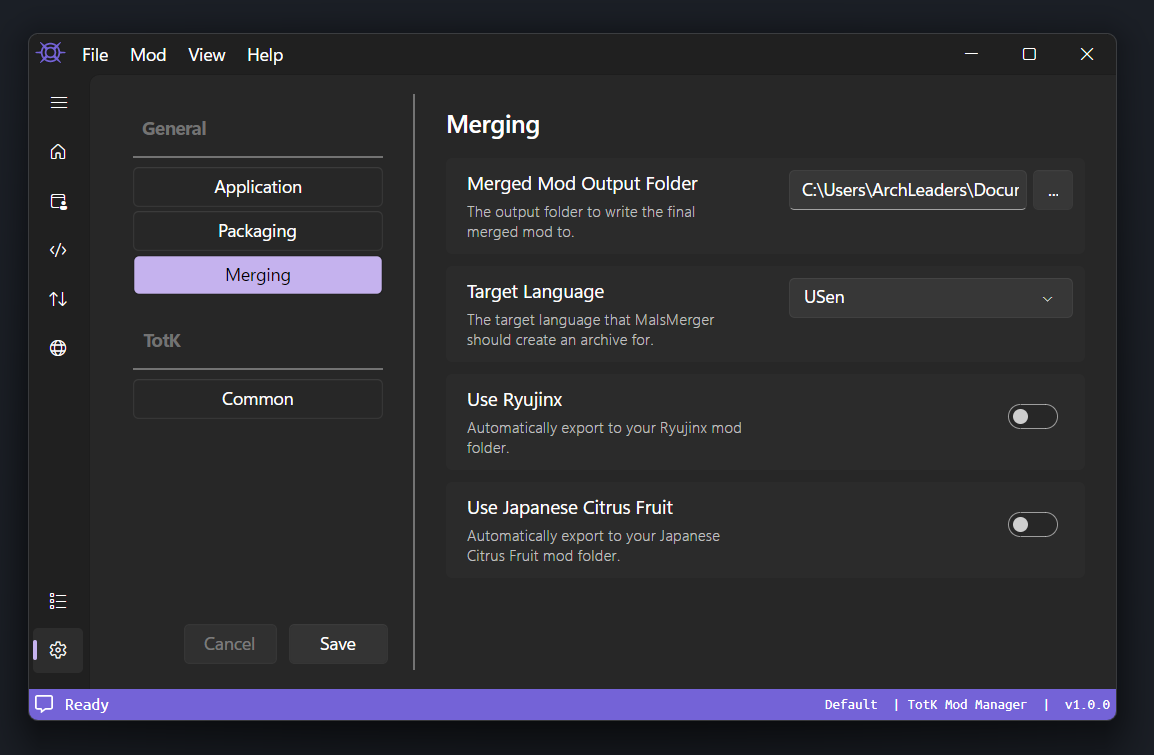
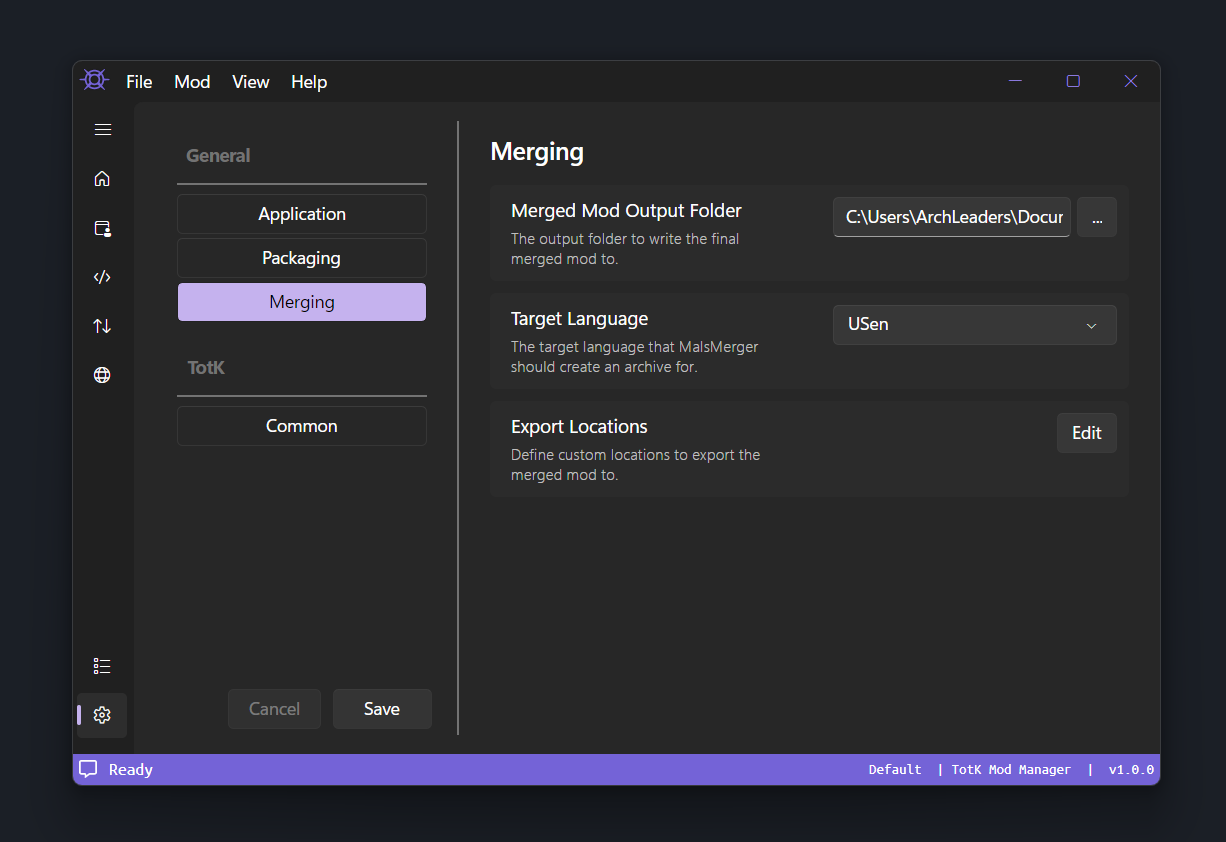
update wiki with new UI changes

diff --git a/wwwroot/docs/using-mods/index.md b/wwwroot/docs/using-mods/index.md
@@ -82,19 +82,17 @@ Once the options are configured to your liking, press the <kbd><samp>Back Arrow<
 
 <br>
 
-## Merging Mods
+## Ordering Mods
 
-...
+The mod list can be rearranged, this allows you to choose the priority order of each mods. Sometimes, some files and edits will be priority based, therefore some conflicting elements from several mods may overwrite each other.
 
-### Ordering Mods
+The mod at the top of the list will have the highest priority, and the mod at the bottom of the list will have the lowest priority.
 
-...
+There are 2 ways of rearranging the order. You can either select a mod and use the arrow buttons under the mod list, or you can drag and drop a mod in the list with your mouse.
 
-### Exporting Mods
+When choosing the order of your mods, you will usually want to place the biggest mods with the highest amount of changes on the lowest priority (this may not apply to all cases, some combinations may need to be tested individually).
 
-...
-
-<!-- EoF -->
+<br>
 
 ## Merging Mods
 In the mods list, on the right side of each mod's name, there is a checkbox. If the box is checked, that means the mod is enabled, and will be included in the merged export. If the box is unchecked, the mod is disabled, and it will not be included in the merged export. You can click and drag mods around to change their priority relative to one another. Mod's higher on the list will be given greater priority. For example, if two enabled mods each edit the same .bfres file, the mod with higher priority will have its changes applied, since bfres files don't support changelogs. When you are happy with your enabled mods and their priority, click `Merge` at the bottom of the screen. Your mods will be automatically merged and exported to the Merged Mod Output Folder specified in the settings.
@@ -117,7 +115,7 @@ For Switch users, `Export to an SD Card` is the best way to get your merged mods
     <img width="650" src="./images/UseMods_07_01.png">
 </p>
 
-To use this feature, first make sure you have your SD card plugged in.
+To use this feature, first make sure you have your SD card plugged in. It is recommended to use the USB Tool available in Hekate to avoid  constantly needing to remove the SD card from its slot.
 
 Then navigate to `File` > `Export to SD Card`. This will open up a dialog where you can choose your SD Card.
 
@@ -125,7 +123,7 @@ Then navigate to `File` > `Export to SD Card`. This will open up a dialog where 
     <img width="650" src="./images/UseMods_07_02.png">
 </p>
 
-After choosing the correct SD card from the dropdown, simply click `Export` and wait for the merge to complete.
+After choosing the correct SD card from the dropdown, simply click `Export` and wait for the operation to complete.
 
 > [!WARNING]
 > Any existing `romfs` or `exefs` folders will be permanently deleted from `atmosphere/contents/0100F2C0115B6000`.

diff --git a/wwwroot/docs/settings/index.md b/wwwroot/docs/settings/index.md
@@ -31,7 +31,7 @@ Controls whether or not changes made to TKMM's settings are automatically saved.
 This is the folder where your mods and profiles are stored.
 
 > [!NOTE]
-> Unless you have low disk space on your system drive, it is recomended to leave this as the default.
+> Unless you have low disk space on your system drive, it is recommended to leave this as the default.
 
 ### 7z Path
 
@@ -52,7 +52,7 @@ An optional field containing the path to the 7-zip executable. This speeds up ex
 Controls is the default name to use when packaging new mods.
 
 > [!IMPORTANT]
-> By default this is your computers username. Make sure this does not contain sensetive information that may be packaged and deployed in mods.
+> By default this is your computers username. Make sure this does not contain sensitive information that may be packaged and deployed in mods.
 
 ---
 
@@ -79,4 +79,8 @@ Controls the language to prefer when merging mods.
 
 ### Export Locations
 
-A menu to configure additional custom export locations. By default, the default export locations for Japanese Citrus Fruit and Ryujinx are listed here and toggled off. You can add additional paths by clicking the `+` button. As with the `Merged Mod Output Folder`, the contents of this folder will be deleted when merging mods, so be sure to set these folders carefully. 
+<p>
+    <img width="450" src="./images/Settings_General_Merging_Custom_Exports.png">
+</p>
+
+A menu to configure custom export locations. By default, the mod folders for Japanese Citrus Fruit and Ryujinx are listed here and toggled off. You can add additional paths by clicking the `+` button. As with the `Merged Mod Output Folder`, the contents of this folder will be deleted when merging mods, so be sure to set these folders carefully. If you play on emulator, this needs to be set to your emulator's TotK mod folder, followed by `\TKMM`.

diff --git a/wwwroot/docs/index.md b/wwwroot/docs/index.md
@@ -43,7 +43,7 @@ When TKMM first starts, you will most likely be asked to configure your game pat
 
 This field contains the path to your Tears of the Kingdom romfs game dump.
 
-If you do not already have the game dump on your computer, please follow [this guide](https://dardel.codeberg.page/nxdumpguide/) to legally obtain one.
+If you do not already have the game dump on your computer, please follow [this guide](https://zeldamods.org/wiki/Help:Dumping_games#Switch) to legally obtain one.
 
 > [!IMPORTANT]
 > When dumping your copy of the game, make sure you include the `1.1.0` update or later. `1.0.0` is [not supported by TKMM](/faq/#why-cant-i-use-version-100).
